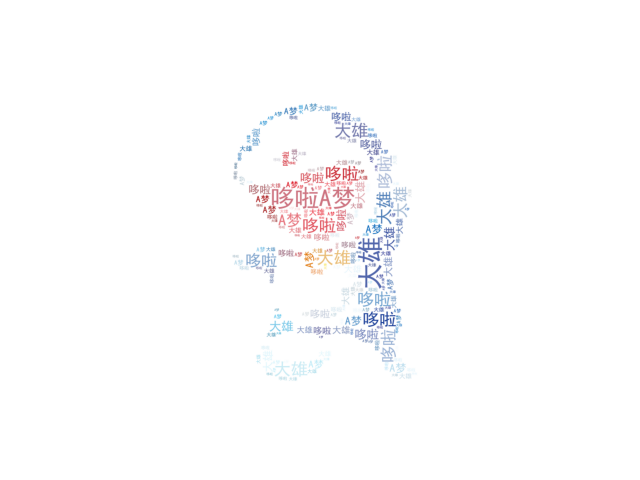
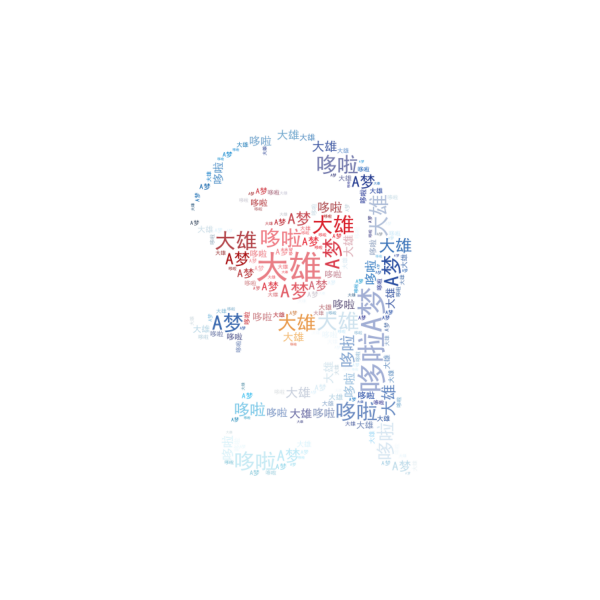
feat(fun/): update

Changed region(s): [[0.3, 0.2188, 0.69, 0.7812], [0.36, 0.75, 0.51, 0.8125]]

diff --git a/fun/word-cloud/happy.py b/fun/word-cloud/happy.py
@@ -5,7 +5,9 @@
 https://pythondict.com/life-intelligent/tools/python-happy-birthday/
 
 command
-    py happy.py image name
+    ./ll_env/Scripts/activate
+
+    py happy.py image new_image_name
 """
 import multidict
 import fire
@@ -13,6 +15,9 @@ import matplotlib.pyplot as plt
 import numpy.random as nr
 from imageio import imread
 from wordcloud import WordCloud, ImageColorGenerator
+
+# Doraemon
+# Nobita
 
 sub_title_start = '哆啦'
 sub_title_end = 'A梦'
@@ -68,6 +73,7 @@ def gen_happy_birthday_cloud(file, name):
     bimgColors = ImageColorGenerator(bimg)
 
     # 渲染
+    plt.figure(figsize=(6, 6))
     plt.axis('off')
     plt.imshow(wordcloud.recolor(color_func=bimgColors))
     plt.savefig(name + '.png')

diff --git a/fun/word-cloud-candle/candle.py b/fun/word-cloud-candle/candle.py
@@ -81,6 +81,9 @@ wordcloud = wordcloud.fit_words(words["count"])
 # 将词语及频率映射到词云对象上
 bimgColors = ImageColorGenerator(bimg)
 
+# 设置画布大小
+plt.figure(figsize=(6, 6))
+
 # 生成颜色
 plt.axis("off")
 
